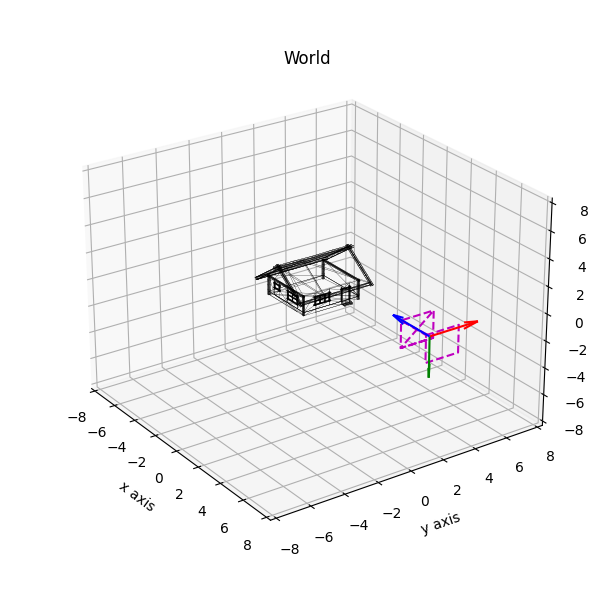
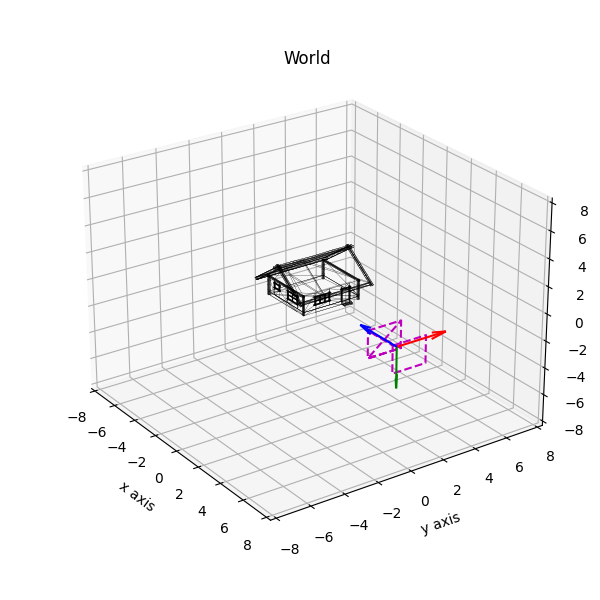
change var names

Changed region(s): [[0.6, 0.51, 0.78, 0.63], [0.78, 0.51, 0.81, 0.54]]

diff --git a/scr/coordinate.py b/scr/coordinate.py
@@ -10,11 +10,11 @@ class Coordinate:
         self._e1 = np.array([[1],[0],[0],[0]]) # X
         self._e2 = np.array([[0],[1],[0],[0]]) # Y
         self._e3 = np.array([[0],[0],[1],[0]]) # Z
-        self.base = np.hstack((self._e1, self._e2, self._e3))
-        self.point = np.array([[0],[0],[0],[1]]) #origin point
+        self._base = np.hstack((self._e1, self._e2, self._e3))
+        self._point = np.array([[0],[0],[0],[1]]) #origin point
         self.obj = np.eye(4)
-        self.obj[:,:3] = self.base
-        self.obj[:,-1] = self.point.T
+        self.obj[:,:3] = self._base
+        self.obj[:,-1] = self._point.T
         self._transformations = multi_dot([translation_matrix(dx=7, dy=0, dz=0), rotationY_matrix(-pi/2), rotationZ_matrix(pi/2)])
         self.obj = np.dot(self._transformations, self.obj)
         self._projection = projection_matrix()

diff --git a/scr/main.py b/scr/main.py
@@ -146,7 +146,7 @@ if __name__ == '__main__':
     house = Object_Stl(name = "WoodHouse")
 
     # Define Projection in the image 
-    intrinsicParameter = intrinsicParameter_matrix( f=5, 
+    intrinsicParameter = intrinsicParameter_matrix( f=-5, 
                                                     sX = 10,
                                                     sY = 10,
                                                     sTheta = 0,
